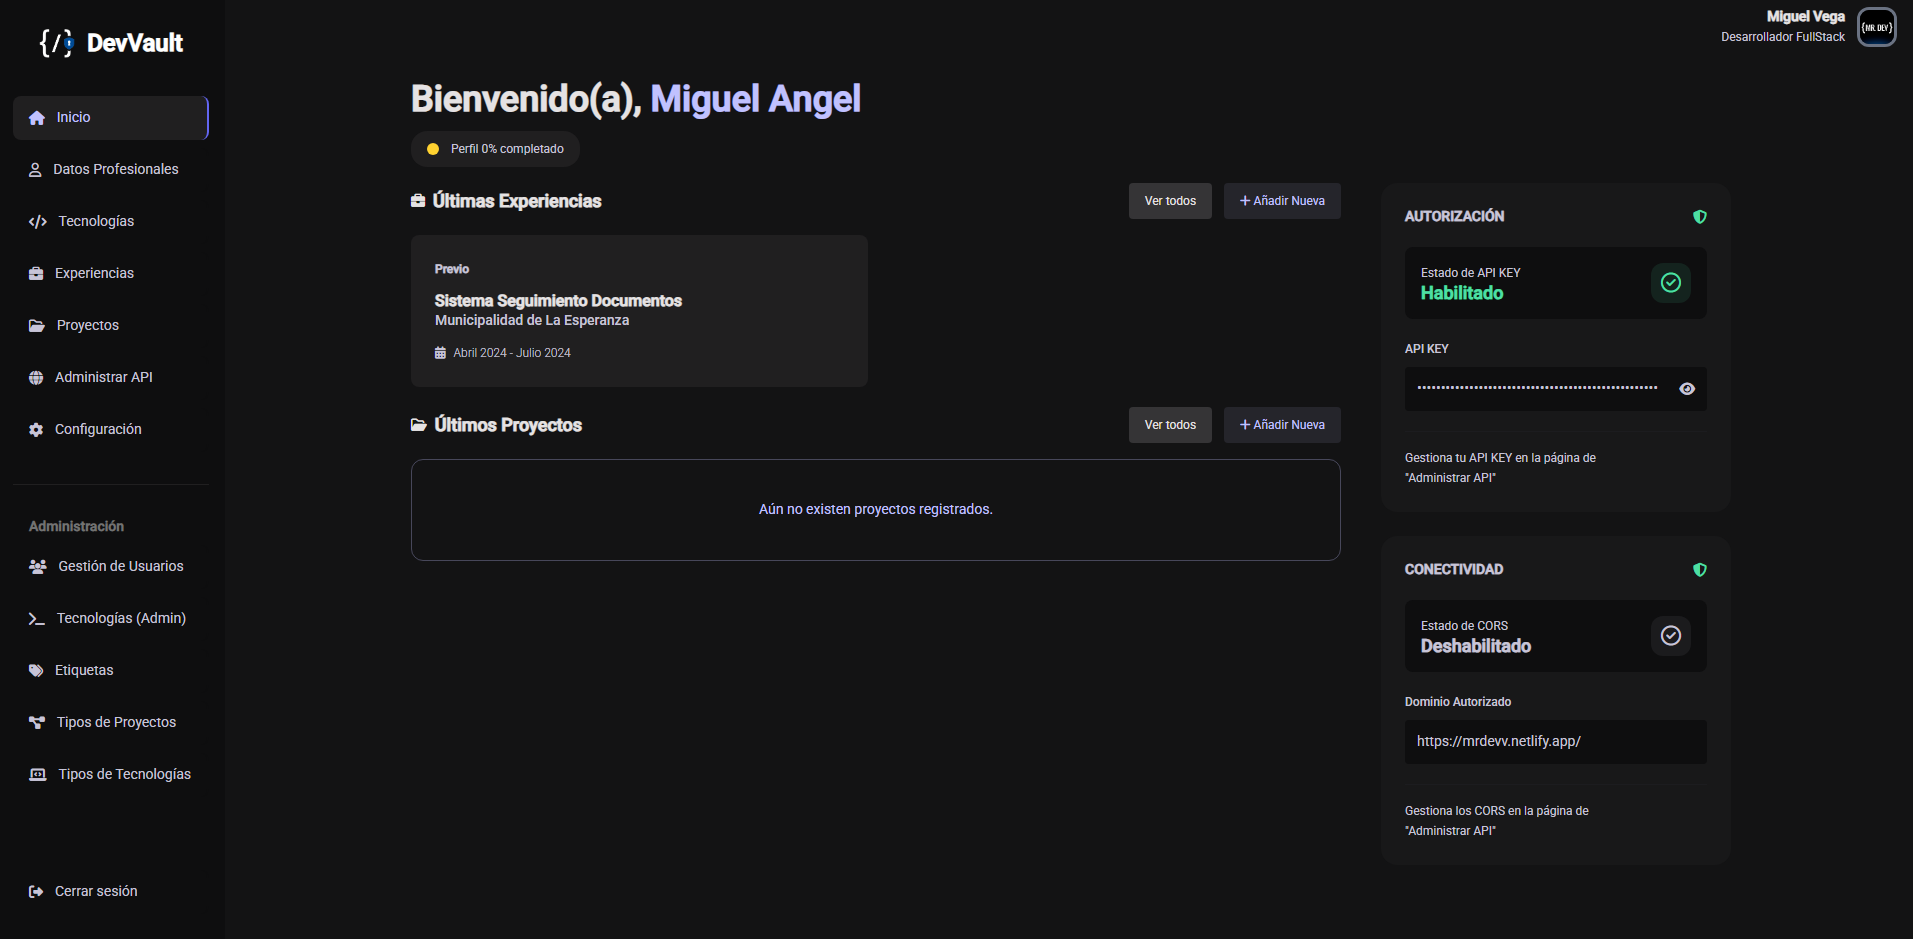
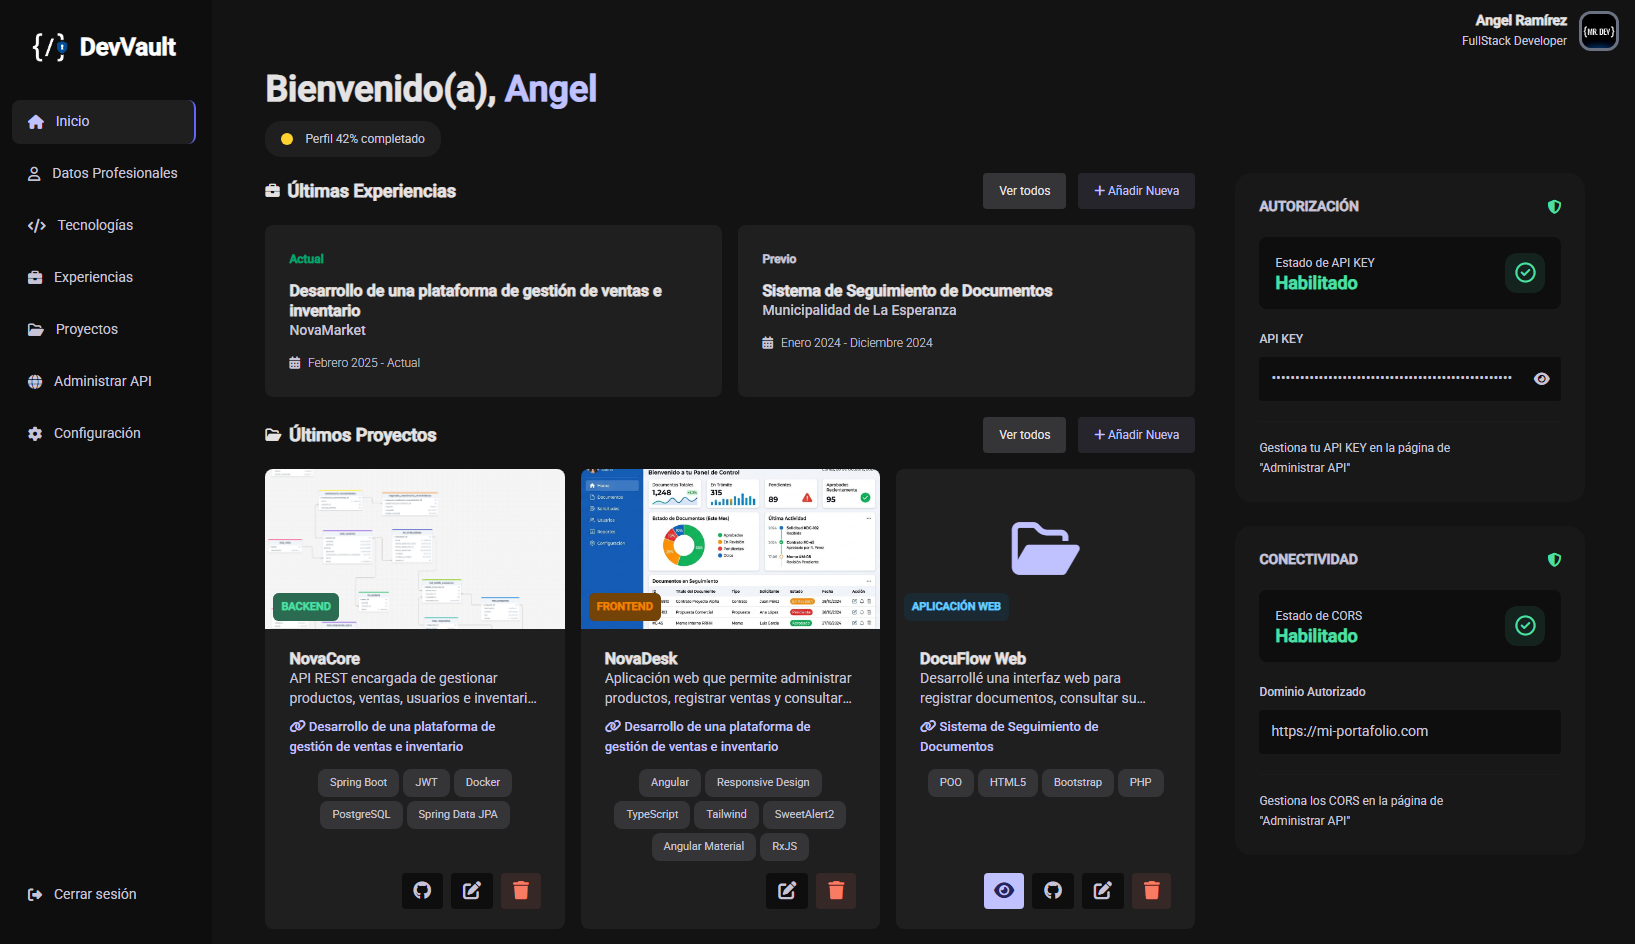
refactor: optimizar imagenes y agregar colores para los tipos de proyectos

diff --git a/src/app/devVault-administrativa/projects/utils/color-tags.ts b/src/app/devVault-administrativa/projects/utils/color-tags.ts
@@ -1,4 +1,33 @@
 export const colorTags: Record<string, string> = {
     backend: 'bg-[#4EDEA3]/45 text-[#4EDEA3]',
-    frontend: 'bg-[#EE8300]/45 text-[#EE8300]'
+    frontend: 'bg-[#EE8300]/45 text-[#EE8300]',
+    fullstack: 'bg-[#C0C1FF]/15 text-[#C0C1FF]',
+    'aplicación web': 'bg-[#69CAFF]/15 text-[#69CAFF]',
+    'aplicación móvil': 'bg-[#F9A8D4]/15 text-[#F9A8D4]',
+    'ciencia de datos': 'bg-[#67E8F9]/15 text-[#67E8F9]',
+    'machine learning': 'bg-[#D8B4FE]/15 text-[#D8B4FE]',
+    'big data': 'bg-[#FCD34D]/15 text-[#FCD34D]',
+    'análisis de datos': 'bg-[#A3E635]/15 text-[#A3E635]',
+    'aplicación de escritorio': 'bg-[#A5B4FC]/15 text-[#A5B4FC]',
+    videojuego: 'bg-[#FDA4AF]/15 text-[#FDA4AF]',
+
+    'IA generativa': 'bg-[#E879F9]/15 text-[#E879F9]',
+    'ingeniería de datos': 'bg-[#2DD4BF]/15 text-[#2DD4BF]',
+    'inteligencia de negocios': 'bg-[#FDE68A]/15 text-[#FDE68A]',
+    'base de datos': 'bg-[#93C5FD]/15 text-[#93C5FD]',
+    automatización: 'bg-[#FDBA74]/15 text-[#FDBA74]',
+    'bot conversacional': 'bg-[#F0ABFC]/15 text-[#F0ABFC]',
+    'integración de sistemas': 'bg-[#5EEAD4]/15 text-[#5EEAD4]',
+    'infraestructura en la nube': 'bg-[#BAE6FD]/15 text-[#BAE6FD]',
+    devops: 'bg-[#86EFAC]/15 text-[#86EFAC]',
+    ciberseguridad: 'bg-[#FCA5A5]/15 text-[#FCA5A5]',
+    'internet de las cosas': 'bg-[#BEF264]/15 text-[#BEF264]',
+    'sistema embebido': 'bg-[#D9F99D]/15 text-[#D9F99D]',
+    'realidad aumentada': 'bg-[#C4B5FD]/15 text-[#C4B5FD]',
+    'realidad virtual': 'bg-[#A78BFA]/15 text-[#A78BFA]',
+    'extensión de navegador': 'bg-[#7DD3FC]/15 text-[#7DD3FC]',
+    'herramienta de línea de comandos': 'bg-[#CBD5E1]/15 text-[#CBD5E1]',
+    'biblioteca de software': 'bg-[#99F6E4]/15 text-[#99F6E4]',
+    'diseño UI/UX': 'bg-[#F472B6]/15 text-[#F472B6]',
+    'automatización de pruebas': 'bg-[#6EE7B7]/15 text-[#6EE7B7]',
 }

diff --git a/src/app/auth/pages/login-page/login-page.html b/src/app/auth/pages/login-page/login-page.html
@@ -3,7 +3,7 @@
             <form [formGroup]="loginForm" (ngSubmit)="login()">
                 <div class="bg-white text-primary-dark rounded-4xl flex flex-col items-center">
                     <div class="bg-secondary w-25 h-25 -mt-10 rounded-full border-6 border-white flex justify-center items-center">
-                        <img class="w-15" src="logo_white.png" alt="logo">
+                        <img class="w-15" src="logo_white.webp" alt="logo">
                     </div>
                     <h1 routerLink="/" class="cursor-pointer text-3xl font-extrabold tracking-tighter mb-4">DevVault</h1>
                     <div class="flex flex-col gap-4 pb-9 px-6">

diff --git a/src/app/landing/components/footer/footer.html b/src/app/landing/components/footer/footer.html
@@ -1,6 +1,6 @@
 <footer class="bg-secondary text-sm md:text-[16px] flex flex-col justify-center items-center py-5 gap-5 text-white">
     <div routerLink="/" class="cursor-pointer flex items-center gap-3">
-        <img src="logo_white.png" alt="devVault" class="w-9 z-10">
+        <img src="logo_white.webp" alt="devVault" class="w-9 z-10">
         <h1 class="text-2xl font-semibold">DevVault</h1>
     </div>
     <p>© {{ year }} DevVault. Creado por <a href="https://github.com/MrDevv" target="_blank">MrDevv.</a></p>

diff --git a/src/app/auth/pages/register/register-page.html b/src/app/auth/pages/register/register-page.html
@@ -14,7 +14,7 @@
         <form [formGroup]="registerForm" (ngSubmit)="registrarUsuario()">
             <div class="max-w-lg flex flex-col gap-7">
                 <div class="flex items-center gap-2">
-                    <img class="w-6 h-6" src="logo_white.png" alt="logo devVault">
+                    <img class="w-6 h-6" src="logo_white.webp" alt="logo devVault">
                     <h1 class="text-primary text-lg">DevVault</h1>
                 </div>
                 <div class="flex flex-col gap-1">

diff --git a/src/app/auth/pages/activate-account/activate-account.html b/src/app/auth/pages/activate-account/activate-account.html
@@ -1,6 +1,6 @@
 <div class="min-h-svh w-full bg-card-secondary flex flex-col px-8">
     <header class="flex items-center gap-2 py-6">
-        <img class="w-6 h-6" src="logo_white.png" alt="logo devVault">
+        <img class="w-6 h-6" src="logo_white.webp" alt="logo devVault">
         <h1 class="text-primary text-lg">DevVault</h1>
     </header>
     <main class="flex-1 flex items-center justify-center py-10">

diff --git a/src/app/auth/pages/confirm-email/confirm-email.html b/src/app/auth/pages/confirm-email/confirm-email.html
@@ -1,6 +1,6 @@
 <div class="min-h-svh w-full bg-card-secondary flex flex-col px-8">
     <header class="flex items-center gap-2 py-6">
-        <img class="w-6 h-6" src="logo_white.png" alt="logo devVault">
+        <img class="w-6 h-6" src="logo_white.webp" alt="logo devVault">
         <h1 class="text-primary text-lg">DevVault</h1>
     </header>
     <main class="flex-1 flex items-center justify-center py-10">

diff --git a/src/app/auth/pages/suspended-account/suspended-account.html b/src/app/auth/pages/suspended-account/suspended-account.html
@@ -1,6 +1,6 @@
 <div class="min-h-svh w-full bg-card-secondary flex flex-col px-8">
     <header class="flex items-center gap-2 py-6">
-        <img class="w-6 h-6" src="logo_white.png" alt="logo devVault">
+        <img class="w-6 h-6" src="logo_white.webp" alt="logo devVault">
         <h1 class="text-primary text-lg">DevVault</h1>
     </header>
     <main class="flex-1 flex items-center justify-center py-10">

diff --git a/src/app/shared/components/side-bar/side-bar.html b/src/app/shared/components/side-bar/side-bar.html
@@ -25,7 +25,7 @@
     [class.md:mb-10]="page()=='guide'"
     >
         <div (click)="sideBarService.toDirectLanding()" class="cursor-pointer flex items-center gap-3">
-            <img src="logo_white.png" alt="devVault" class="w-9 z-10">
+            <img src="logo_white.webp" alt="devVault" class="w-9 z-10">
             <h1 class="text-2xl font-semibold">DevVault</h1>
         </div>
 

diff --git a/src/app/shared/components/nav-bar/nav-bar.html b/src/app/shared/components/nav-bar/nav-bar.html
@@ -7,7 +7,7 @@
         class="cursor-pointer flex items-center gap-3"
         [class.md:hidden]="!isLadingPage()"
     >
-        <img src="logo_white.png" alt="devVault" class="w-9 z-10">
+        <img src="logo_white.webp" alt="devVault" class="w-9 z-10">
         <h1 class="text-2xl font-semibold">DevVault</h1>
     </div>    
 

diff --git a/src/app/devVault-administrativa/experience/components/card-experience-simple/card-experience-simple.html b/src/app/devVault-administrativa/experience/components/card-experience-simple/card-experience-simple.html
@@ -1,4 +1,4 @@
-<div class="bg-card rounded-lg p-6">
+<div class="bg-card min-h-full rounded-lg p-6">
     <span class="font-bold text-[12px] block mb-3"
     [class.text-[#00A572]]="experiencia()?.fechaInicio"
     [class.text-[#C7C4D7]]="experiencia()?.fechaFin">
